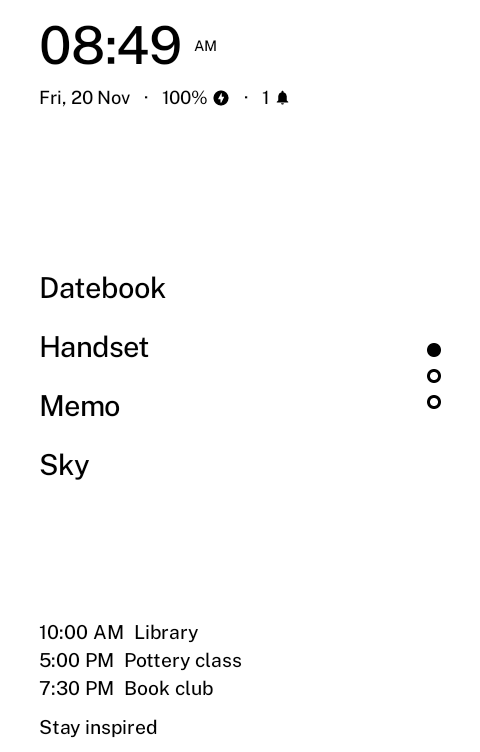
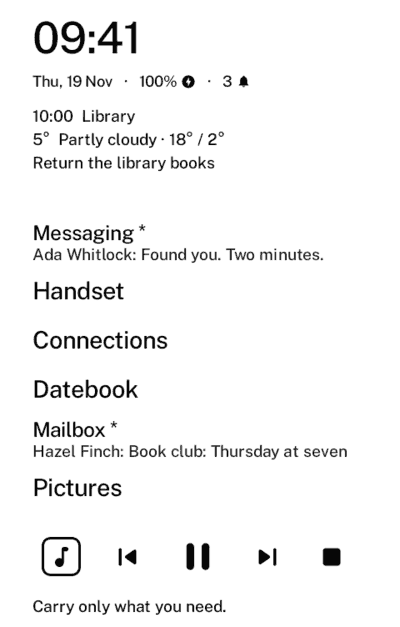
README: the site's newer screenshots, Your apps in place of About

diff --git a/README.md b/README.md
@@ -16,7 +16,8 @@ plain inkOS, go to [gezimos's repository](https://github.com/gezimos/inkos) or
 
 | | |
 |---|---|
-| ![Home, with lines from Glance under the apps](screenshots/1-home.png) | ![Home lines: each source and what it is doing](screenshots/2-home-lines.png) |
+| ![Home: the clock, lines from Datebook, Sky and Memo, home apps with their latest message, and the music controls](screenshots/1-home.png) | ![Home lines: each app that can send a line, and whether it is on](screenshots/2-home-lines.png) |
+| ![Settings: dark mode, the Nextcloud account, default apps, Your apps and the home screen](screenshots/3-settings.png) | ![Your apps: the family of apps by section, how many of each are installed](screenshots/4-your-apps.png) |
 
 ## Which phones
 
